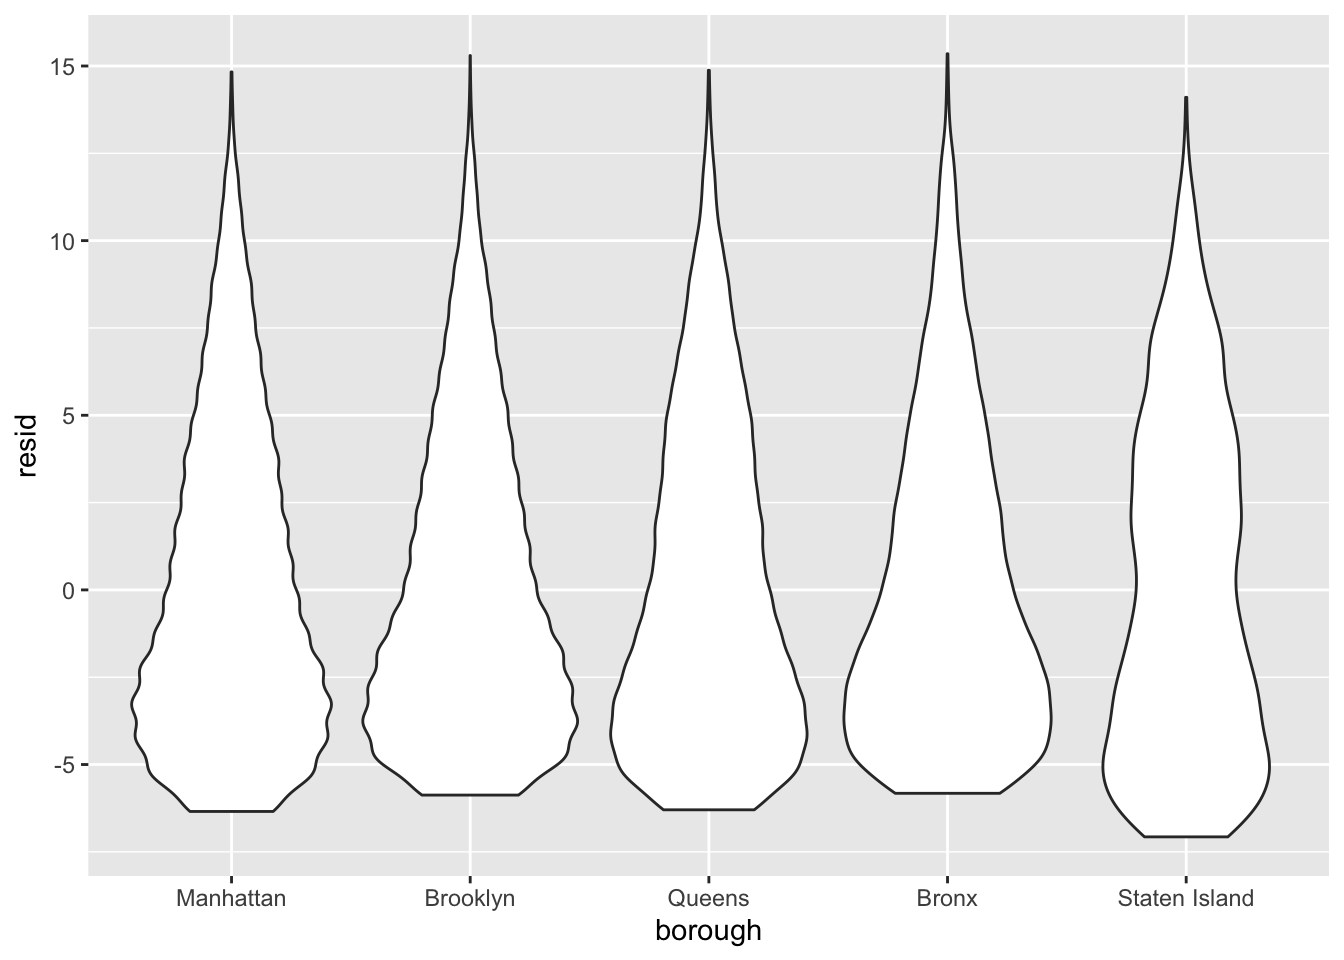
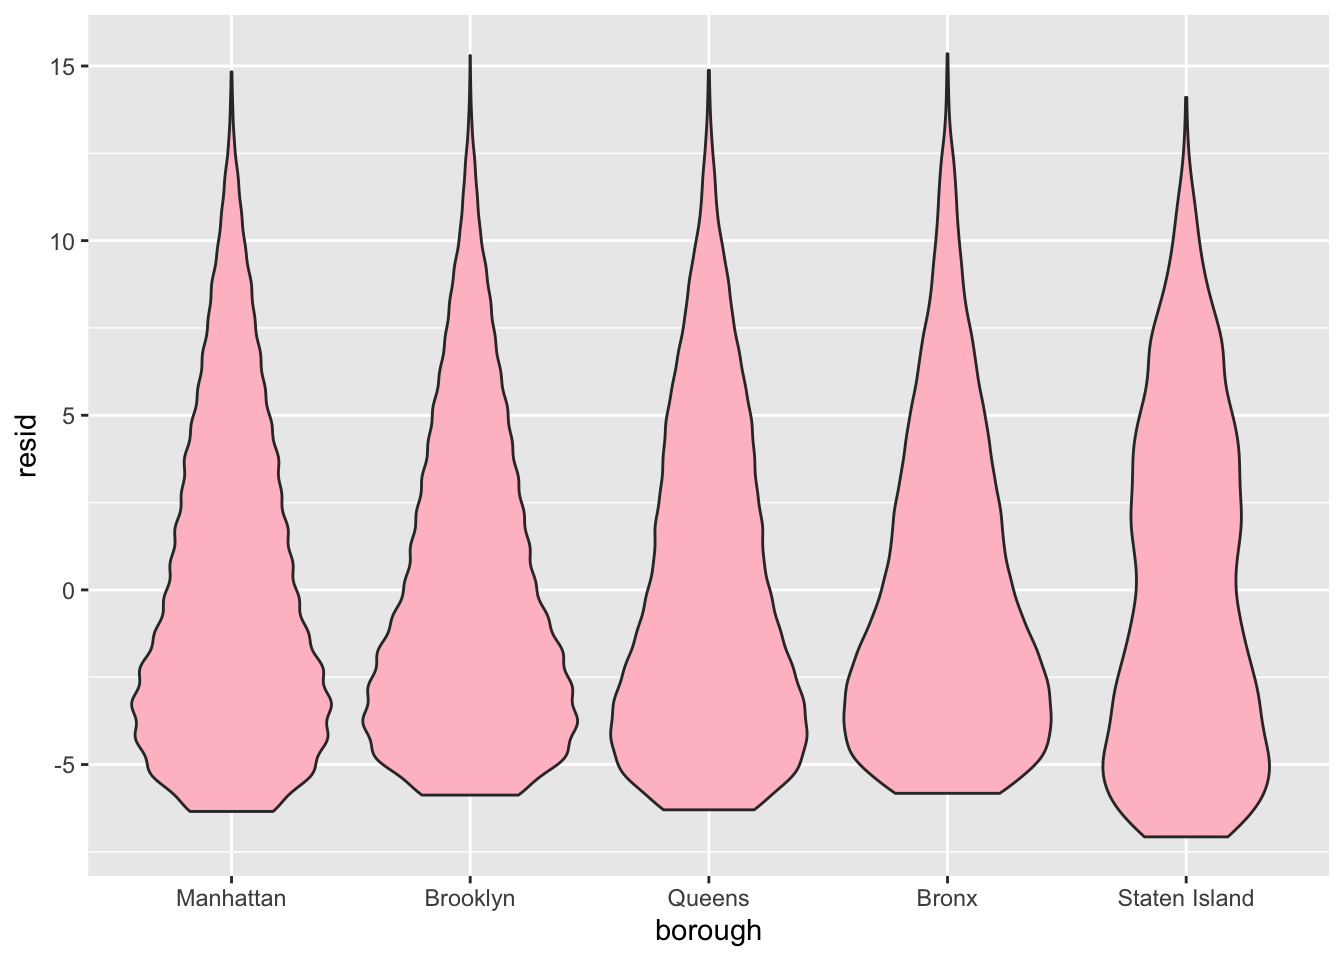
added color to violin

Changed region(s): [[0.0938, 0.125, 0.7812, 0.8438], [0.8125, 0.1562, 0.9688, 0.875]]

diff --git a/p8105_final_project_report.html b/p8105_final_project_report.html
@@ -721,7 +721,7 @@ fit %&gt;%
 <pre class="r"><code>#graph residuals for each borough
 distinct_dogz_reg %&gt;% 
   modelr::add_residuals(fit) %&gt;% 
-  ggplot(aes(x = borough, y = resid)) + geom_violin()</code></pre>
+  ggplot(aes(x = borough, y = resid)) + geom_violin(fill = &quot;pink&quot;)</code></pre>
 <p><img src="p8105_final_project_report_files/figure-html/unnamed-chunk-9-1.png" width="672" /></p>
 <p><span class="math inline">\(~\)</span></p>
 </div>
